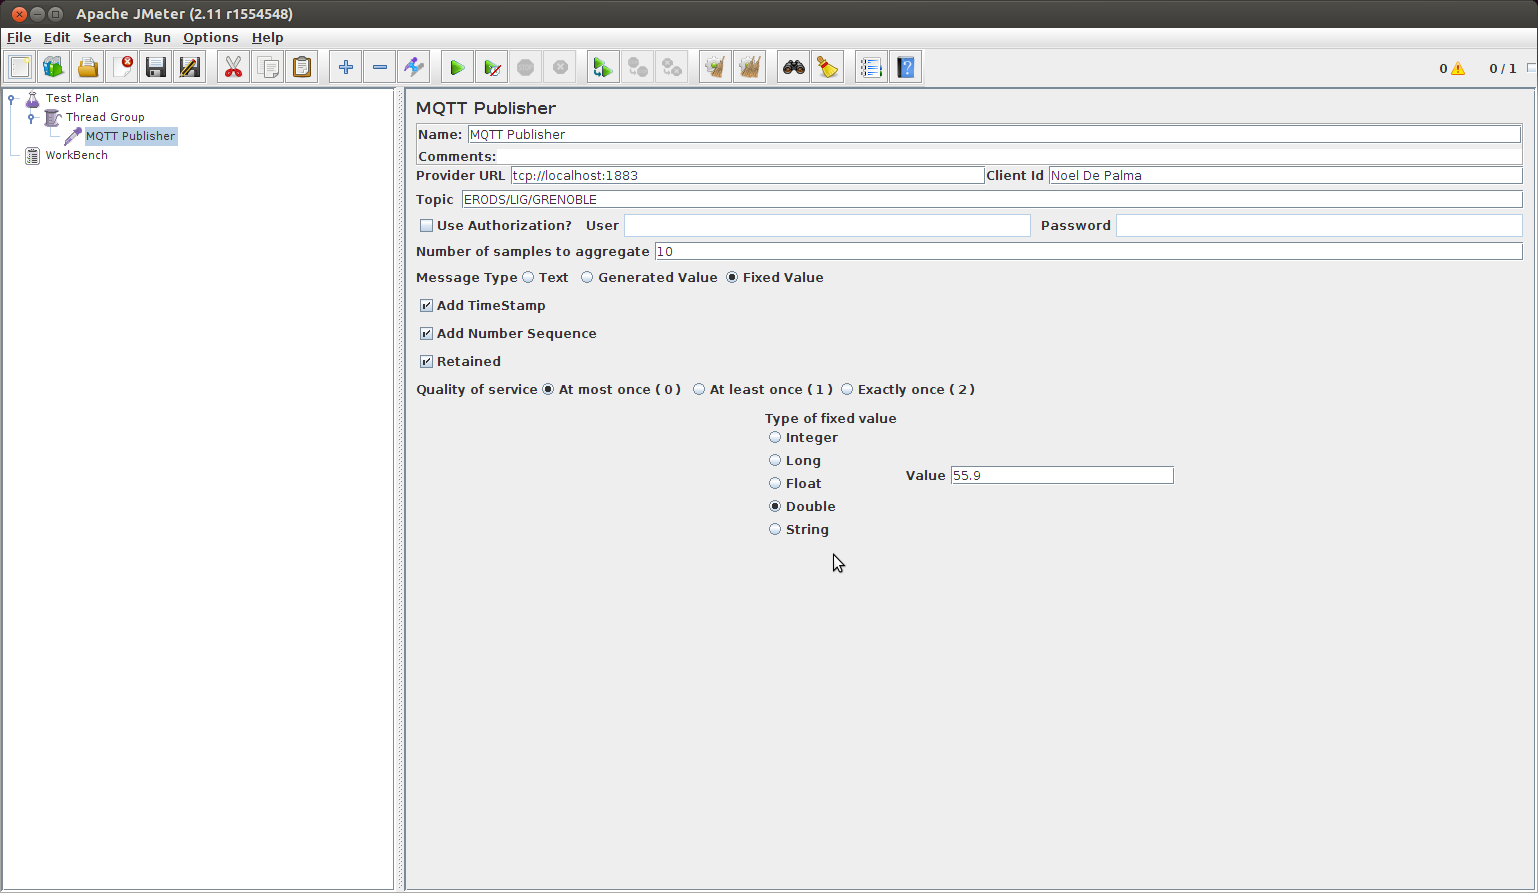
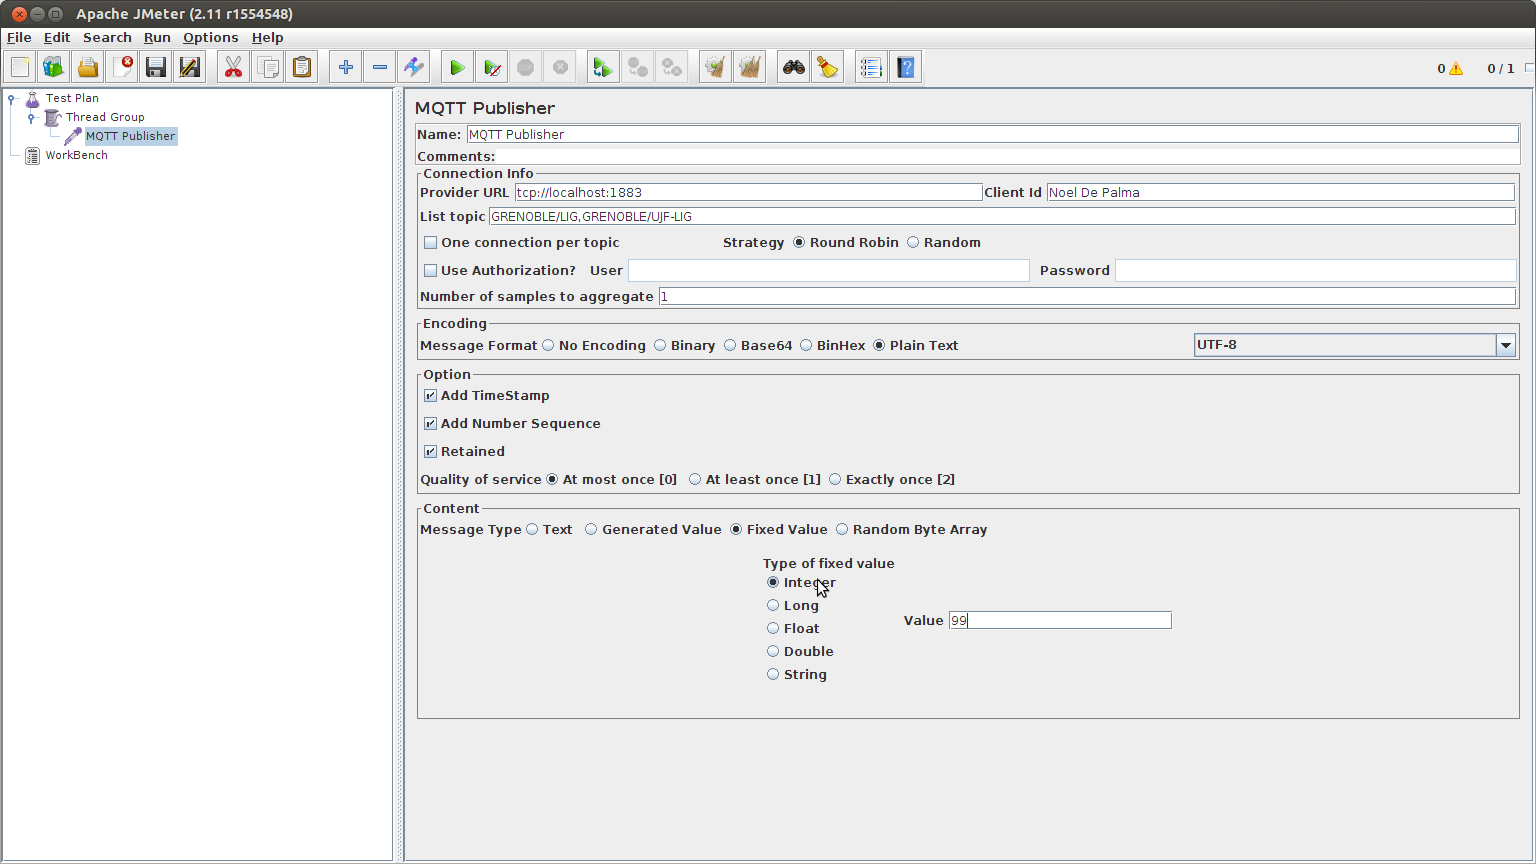
Finish List Topic and One connection per topic

Changed region(s): [[0.0, 0.0, 1.0, 0.9688], [0.5938, 0.6875, 0.625, 0.75]]

diff --git a/README.md b/README.md
@@ -106,7 +106,7 @@ being processed. This does make Exactly Once the slower but most reliable QoS se
 
 With MQTT Publisher in Jmeter, three type of messages can be sent (Message Type):  
 **Text:** The text message, without flag header and the server MQTT can deliver it like a normal
-text.  
+text if you choose *No Encoding* or *Plain Text*.  
 
 ![Alt text](images/Publisher_Text.png)  
  
@@ -133,6 +133,17 @@ for the generator.
 The fixed value can be of type: Integer, Long, Float, Double, String within the range [Min,Max].  
   
 ![Alt text](images/Publisher_fixed_value.png)  
+*Random Byte Array:*  
+
+The data in form of random byte array with the size array as an input.  
+For example, if you type 9 in the field size array, so without encoding, time header, number sequence, the message has 9 bytes of content(random data) and 1 byte of flag header  
+and so, 10 bytes to publish.
+The images below show when you publish with option : One Connection Per Topic and the data is type of Random Byte Array.
+In the terminal,you see that there are two connections of 2 client Id : "Noel De Palma 0"     
+![Alt text](images/One_connection_per_topic.png)  
+
+![Alt text](images/Random_Byte_Array.png)  
+
 
 For mesuring, thanks to Jmeter, we can add some listeners:  
   
